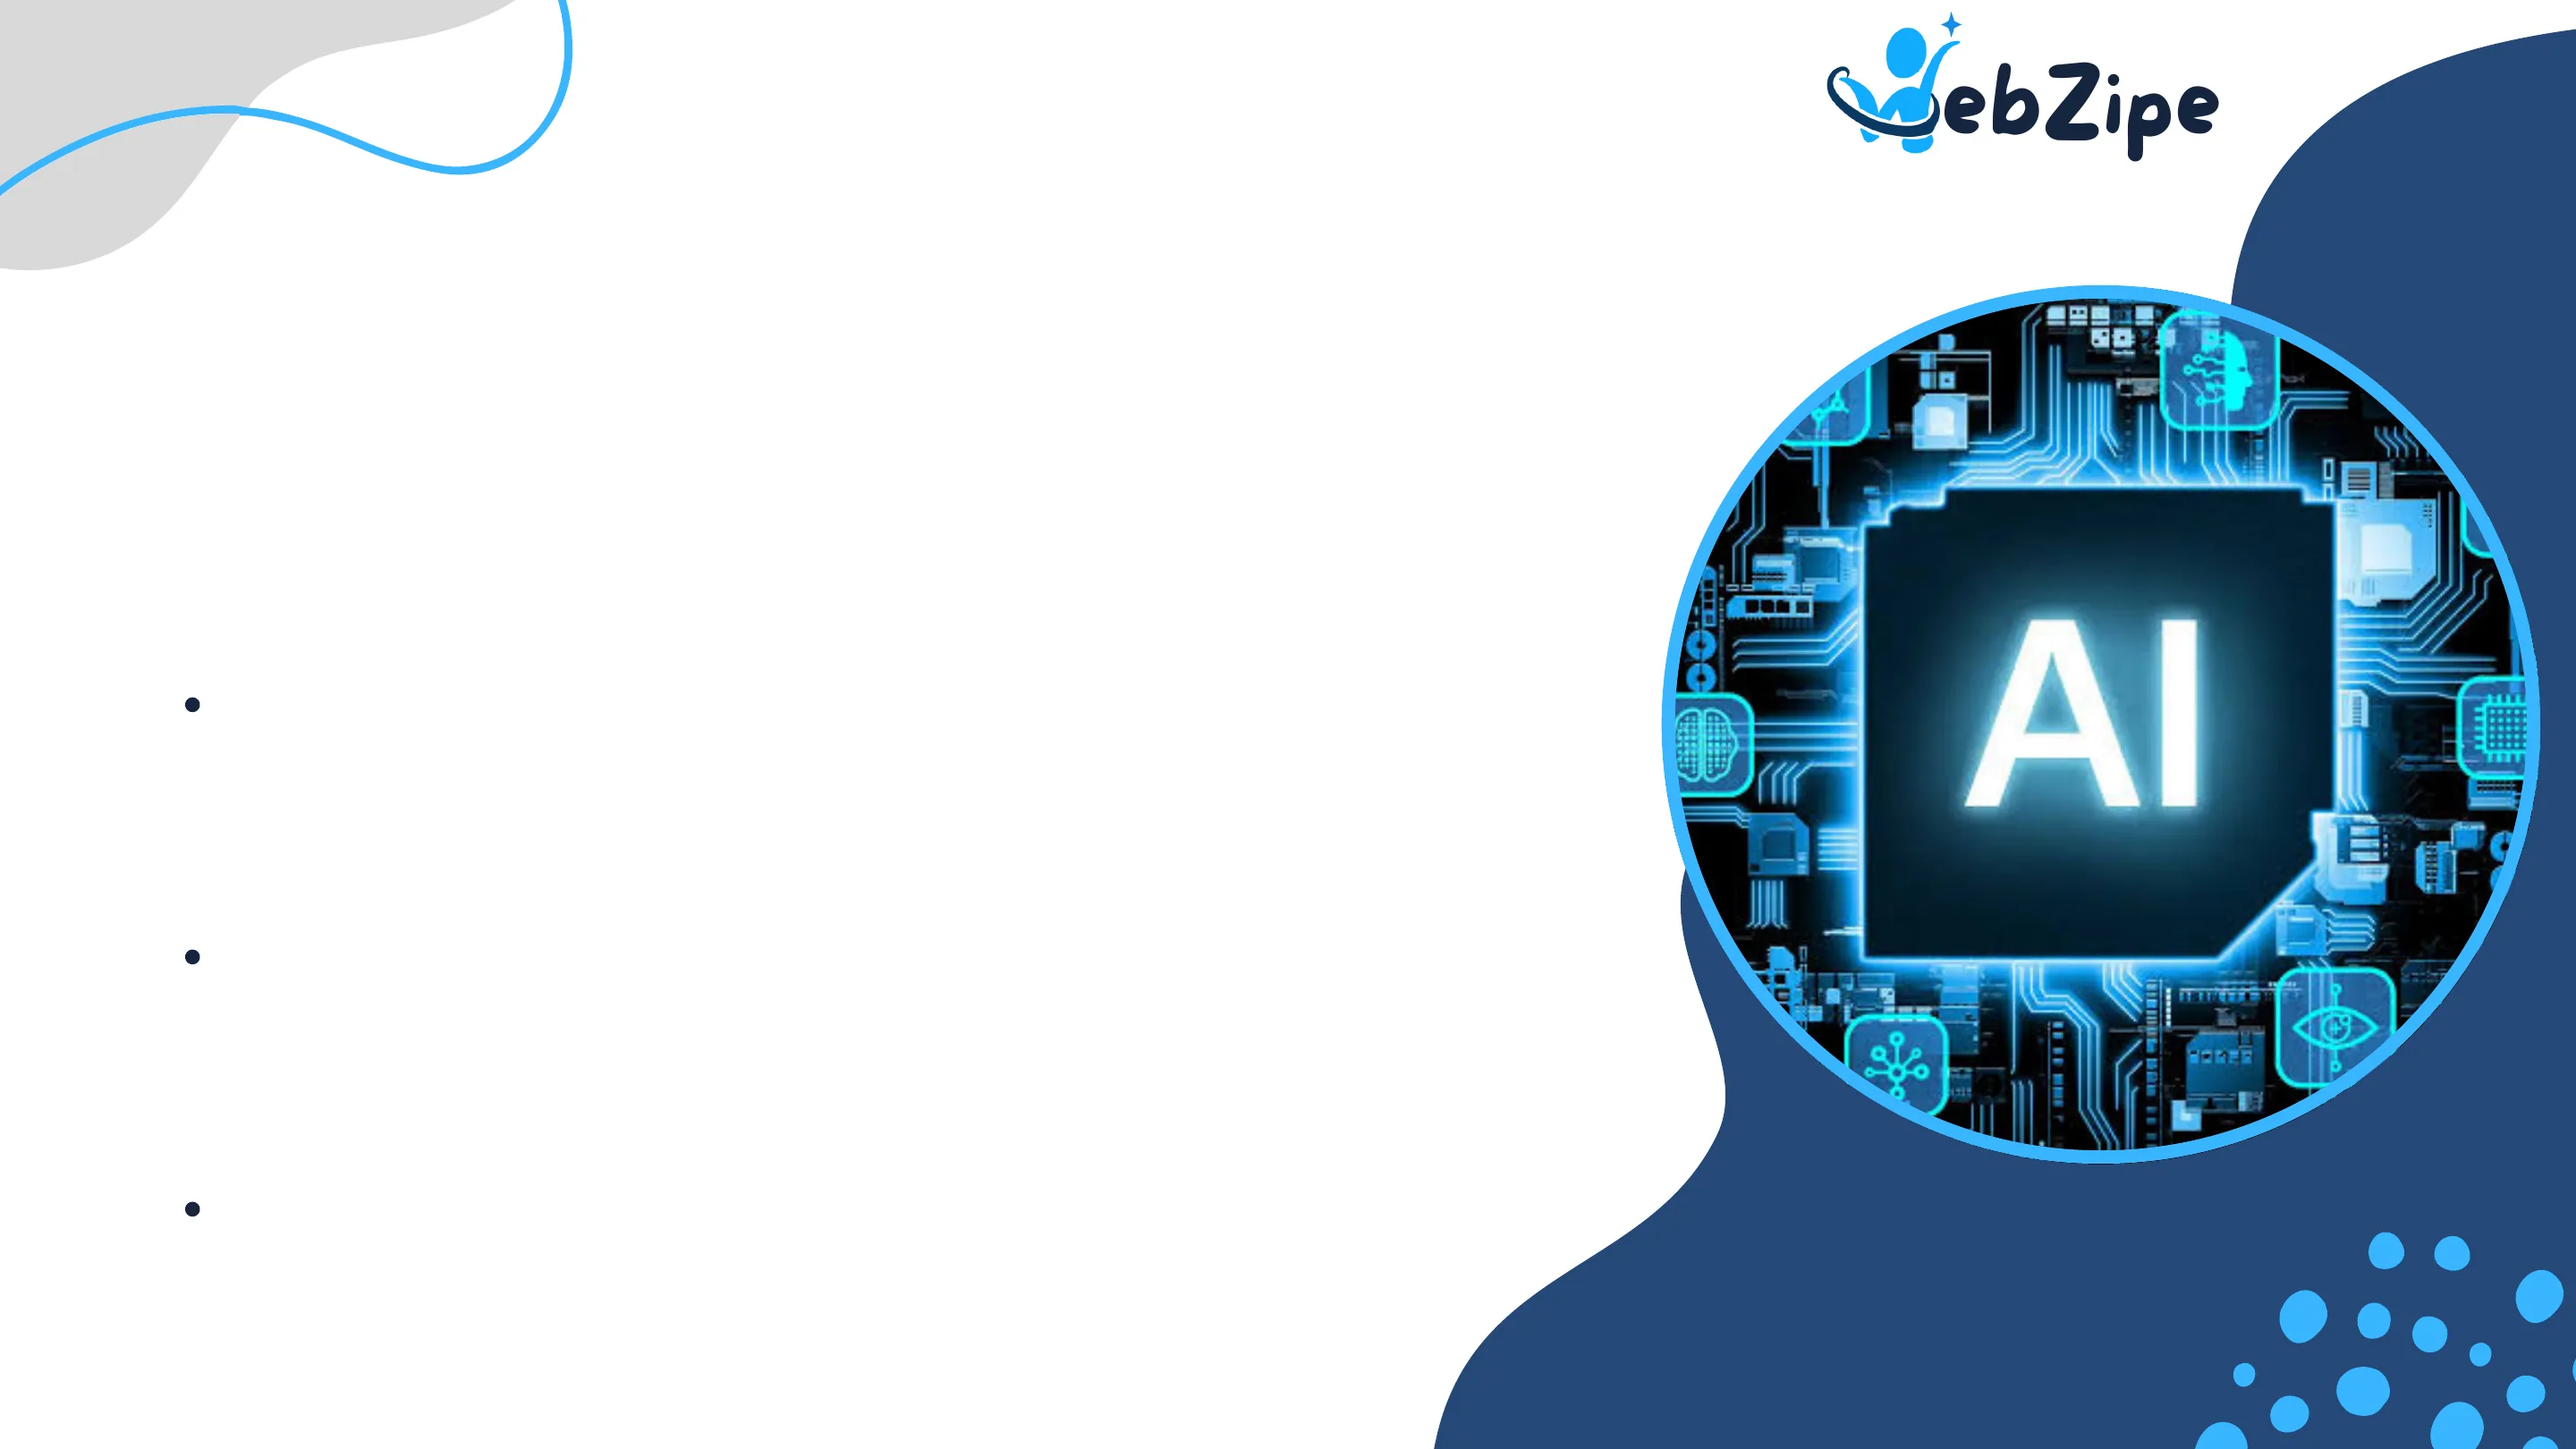
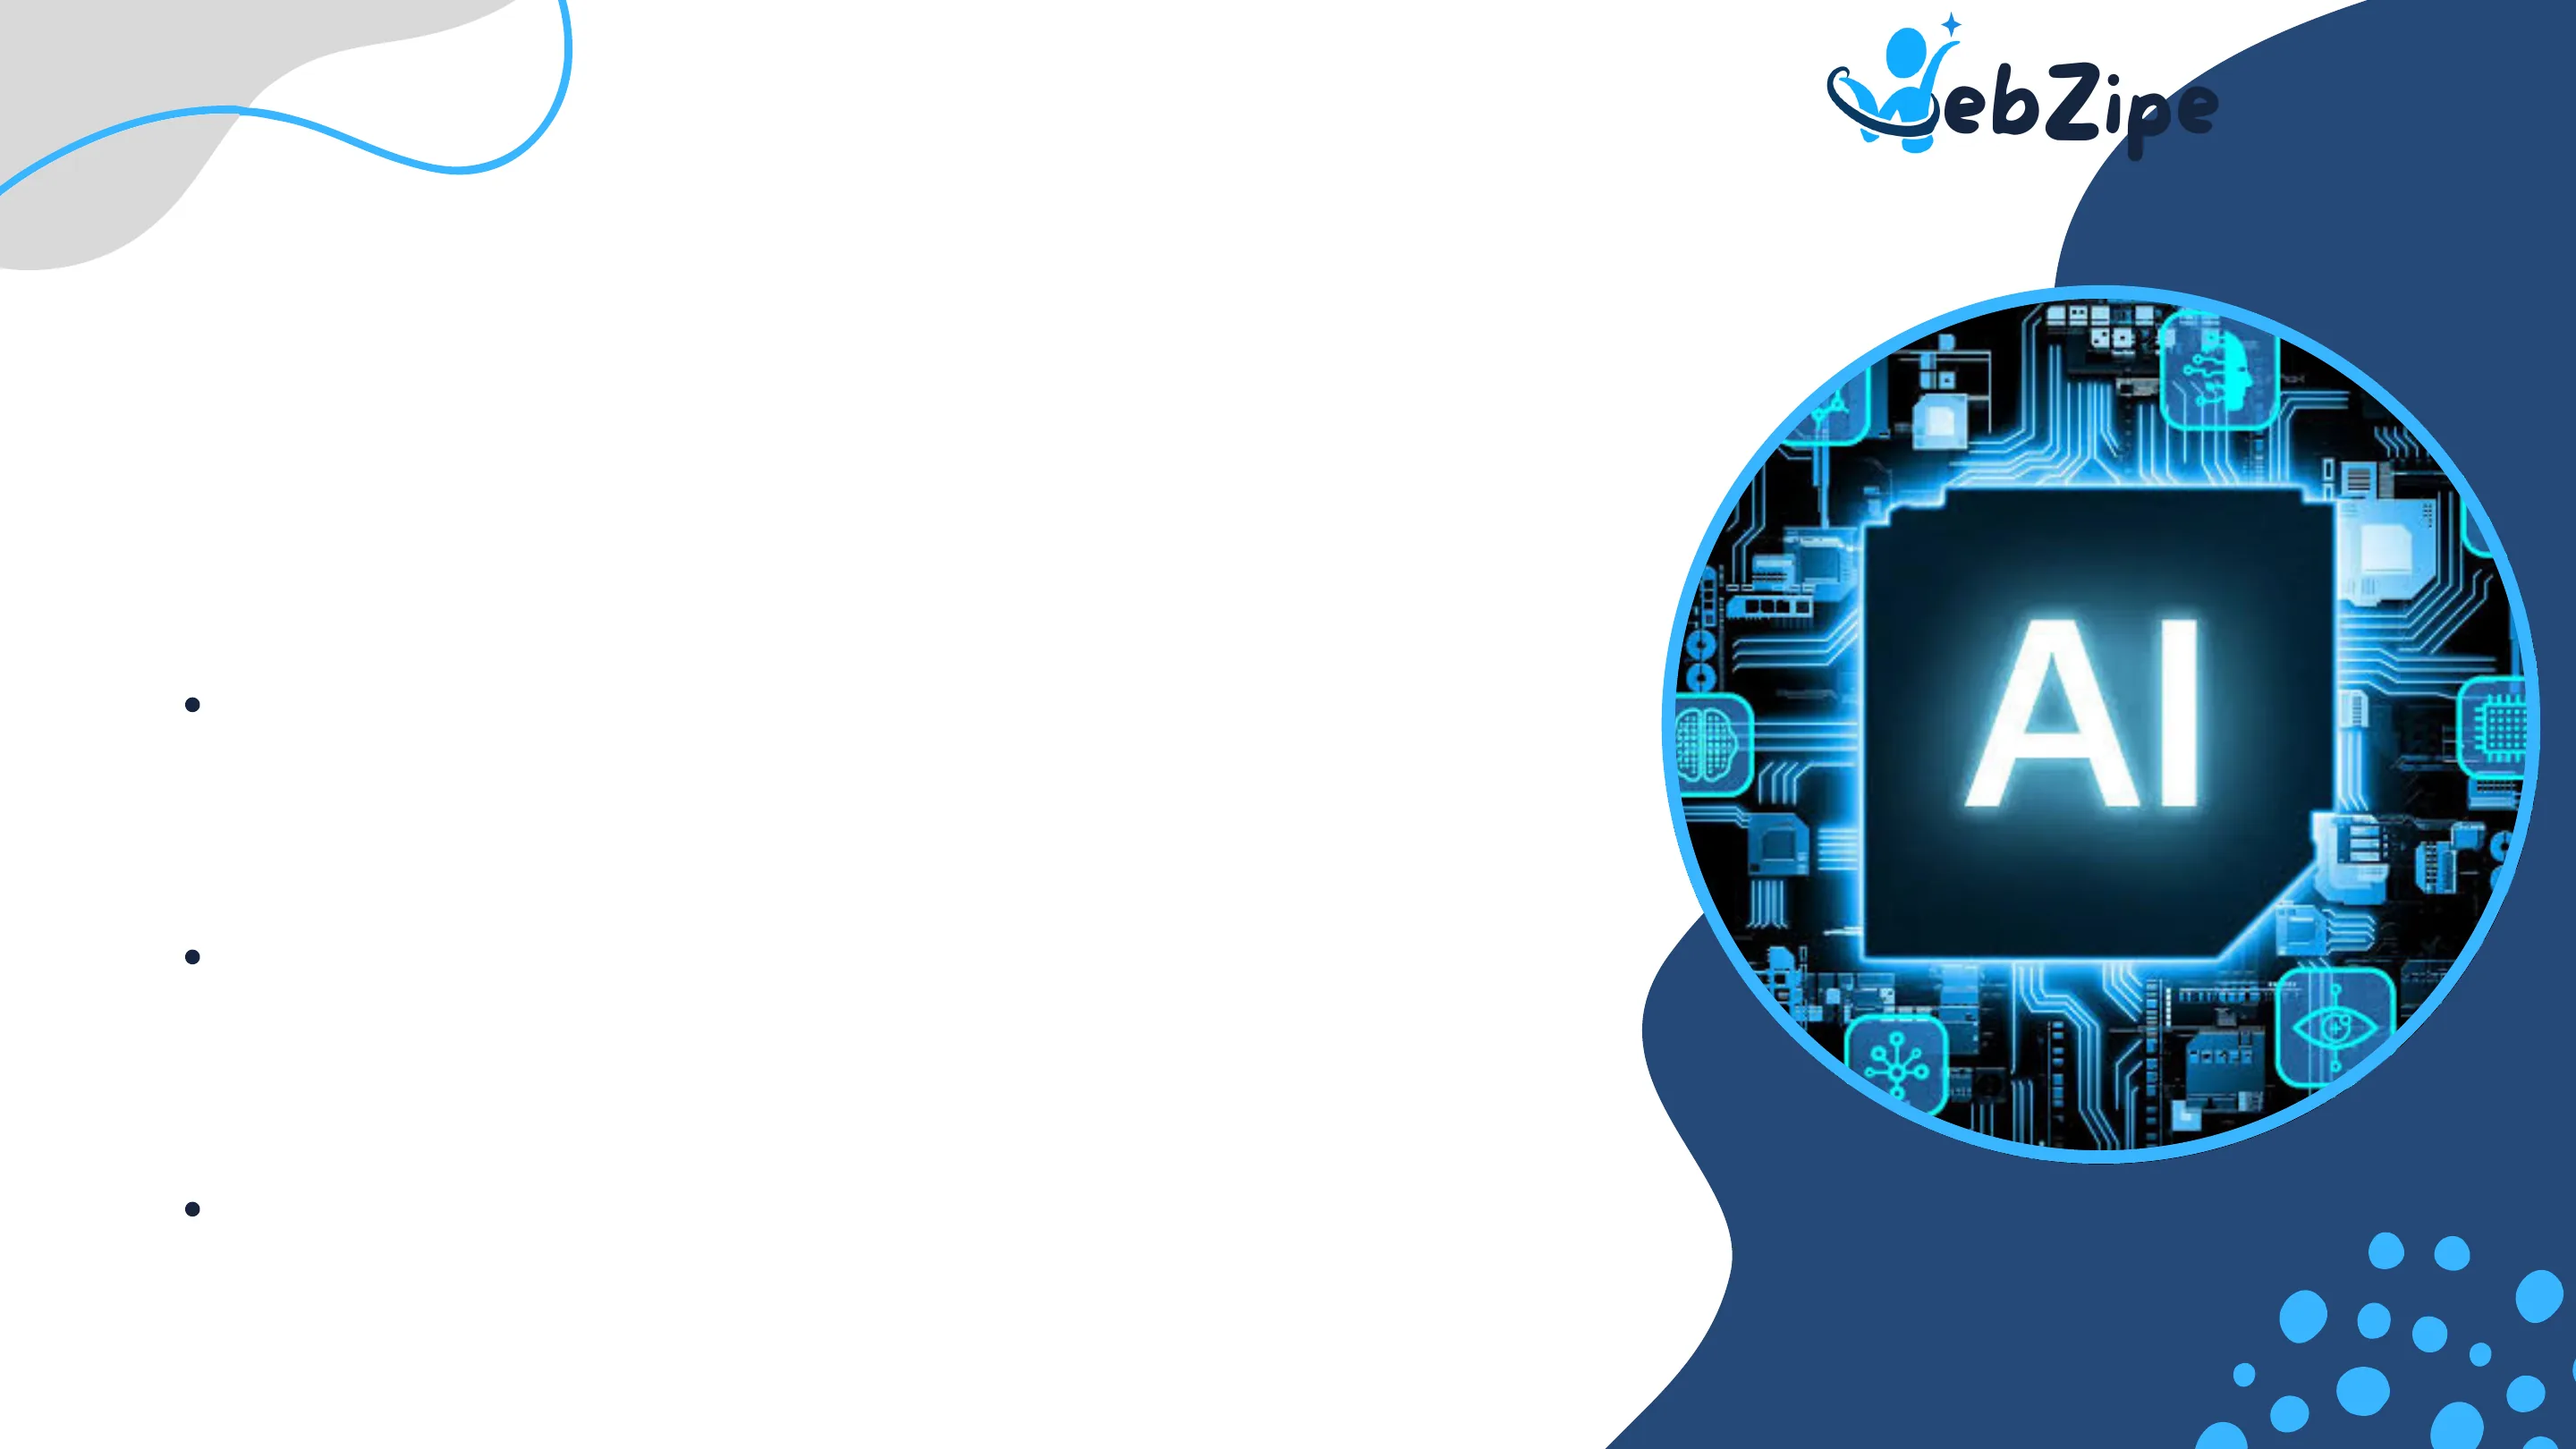
Charla IA: nueva diapositiva final con QR de Instagram y enlaces
Claude-Session: https://claude.ai/code/session_01AfKWApDfcj2bCvPTG6Sa36

Changed region(s): [[0.5312, 0.6173, 0.6875, 1.0], [0.7812, 0.0, 1.0, 0.216]]

diff --git a/charla-ia/index.html b/charla-ia/index.html
@@ -402,7 +402,9 @@
           <div class="ln f-r a-l" style="left:15.846%;top:75.297%;width:17.769%;height:3.772%;--fs:2.1222;color:#ede8e4;--d:270ms"><span><a href="https://webzipe7-byte.github.io/WebZipe/">https://webzipe7-</a></span></div>
           <div class="ln f-r a-c" style="left:45.230%;top:76.259%;width:27.607%;height:3.649%;--fs:2.0528;color:#ede8e4;--d:315ms"><span><a href="mailto:webzipemarketing@gmail.com">webzipemarketing@gmail.com</a></span></div>
           <div class="ln f-r a-l" style="left:15.846%;top:80.575%;width:23.945%;height:3.772%;--fs:2.1222;color:#ede8e4;--d:360ms"><span><a href="https://webzipe7-byte.github.io/WebZipe/">byte.github.io/WebZipe/</a></span></div>
-          <a class="qr" href="https://webzipe7-byte.github.io/WebZipe/" aria-label="Abrir el sitio web de WebZipe" style="left:73.326%;top:69.269%;width:15.312%;height:26.574%"></a>
+          <div class="ln f-r a-c" style="left:44.980%;top:89.192%;width:18.119%;height:3.649%;--fs:2.0528;color:#ede8e4;--d:405ms"><span><a href="https://www.instagram.com/webzipe_marketing/" target="_blank" rel="noopener">webzipe_marketing</a></span></div>
+          <a class="qr" href="https://webzipe7-byte.github.io/WebZipe/" aria-label="Abrir el sitio web de WebZipe" style="left:63.796%;top:15.192%;width:15.312%;height:26.574%"></a>
+          <a class="qr" href="https://www.instagram.com/webzipe_marketing/" target="_blank" rel="noopener" aria-label="Abrir el Instagram de WebZipe" style="left:83.606%;top:15.100%;width:14.844%;height:27.130%"></a>
         </div>
       </div>
     </div>
